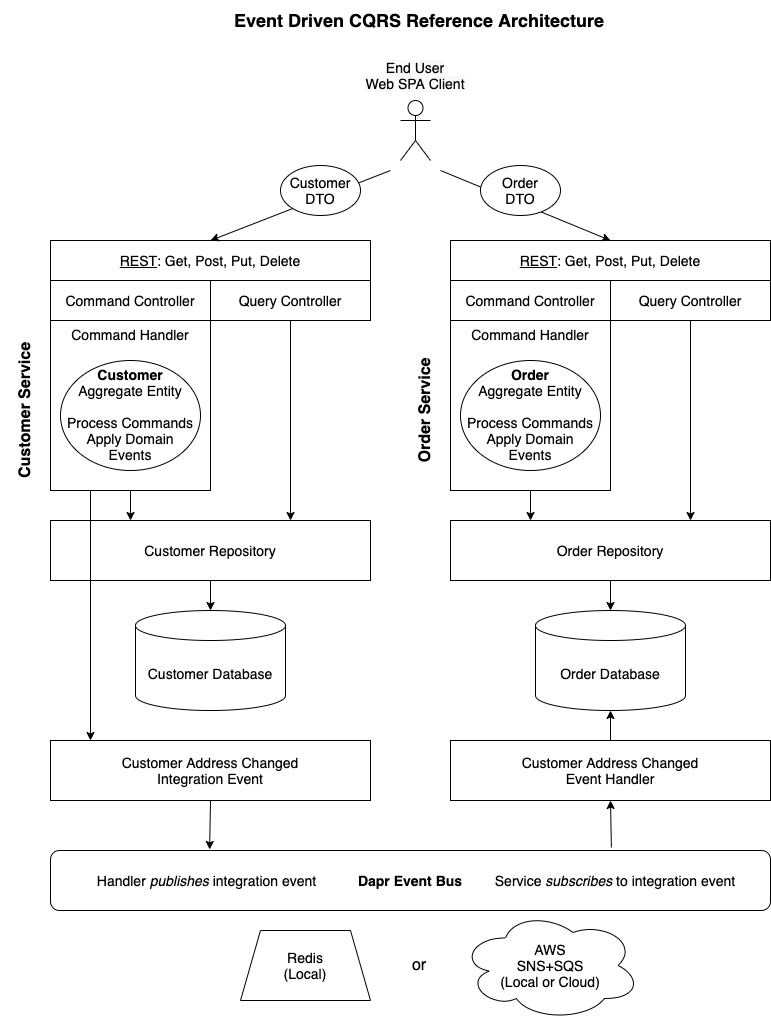
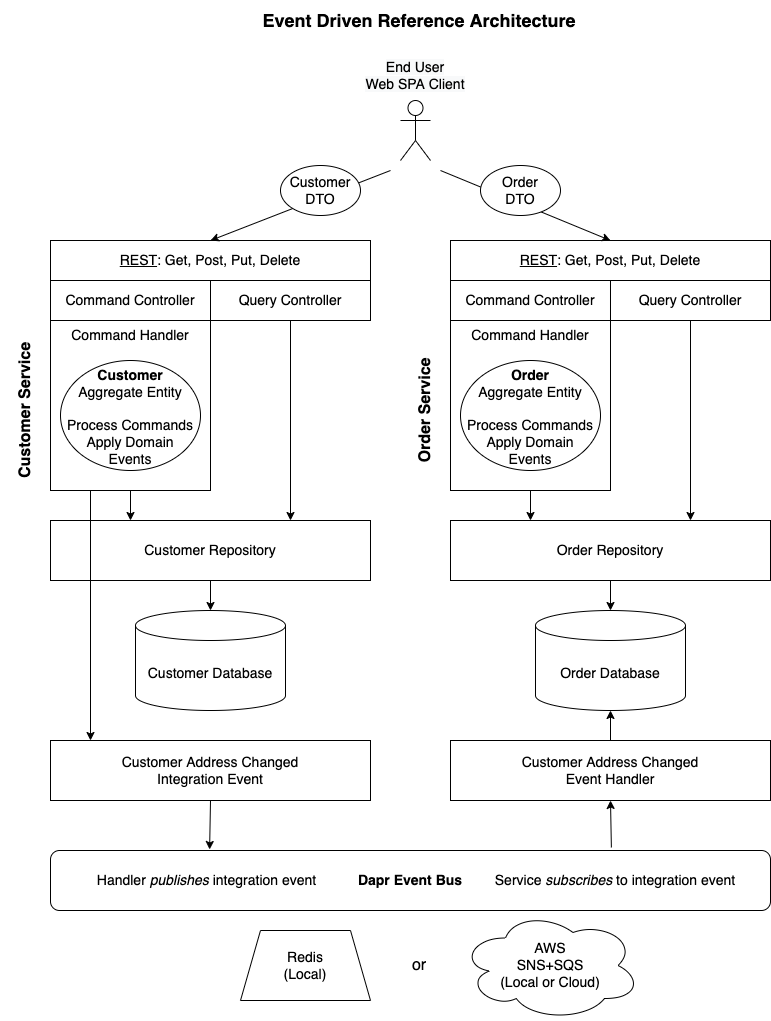
Rename solution, update ReadMe.md.

diff --git a/ReadMe.md b/ReadMe.md
@@ -1,6 +1,6 @@
-# EventDriven.CQRS
+# EventDriven.ReferenceArchitecture
 
-An event-driven approach to Command Query Responsibility Segregation.
+Reference architecture for using **EventDriven** abstractions and libraries for Domain Driven Design (**DDD**), Command-Query Responsibility Segregation (**CQRS**) and Event Driven Architecture (**EDA**).
 
 ## Prerequisites
 - [.NET Core SDK](https://dotnet.microsoft.com/download) (5.0 or greater)
@@ -12,10 +12,11 @@ An event-driven approach to Command Query Responsibility Segregation.
 - [Dapr](https://dapr.io/) (Distributed Application Runtime)
   - [Install Dapr CLI](https://docs.dapr.io/getting-started/install-dapr-cli/)
   - [Initialize Dapr](https://docs.dapr.io/getting-started/install-dapr-selfhost/)
+- [Microsoft Tye](https://github.com/dotnet/tye/blob/main/docs/getting_started.md) (recommended)
 
 ## Introduction
 
-This project builds on the principles of [Domain Driven Design](https://en.wikipedia.org/wiki/Domain-driven_design) to provide a set of abstractions and reference architecture for implementing the [Command Query Responsibility Segregation](https://docs.microsoft.com/en-us/azure/architecture/patterns/cqrs) pattern, also known as as CQRS. Because entities process commands by emitting domain events, adding [event sourcing](https://microservices.io/patterns/data/event-sourcing.html) at a later time will be relatively straightforward.
+This project builds on the principles of [Domain Driven Design](https://en.wikipedia.org/wiki/Domain-driven_design) (DDD) to provide a set of abstractions and reference architecture for implementing the [Command Query Responsibility Segregation](https://docs.microsoft.com/en-us/azure/architecture/patterns/cqrs) (CQRS) pattern. By providing an event bus abstraction over [Dapr](https://dapr.io/) (Distributed Application Runtime), the reference architecture demonstrates how to apply principles of [Event Driven Architecture](https://en.wikipedia.org/wiki/Event-driven_architecture) (EDA). Because entities process commands by emitting domain events, adding [event sourcing](https://microservices.io/patterns/data/event-sourcing.html) at a later time will be relatively straightforward.
 
 The **Reference Architecture** projects demonstrate how to apply these concepts to two microservices: `CustomerService` and `OrderService`. In addition, each service has *separate controllers for read and write operations*, thus segregating command and query responsibilities, with different sets of models, or Data Transfer Objects (DTO's).
 - **Query Controller**: Uses repository to retrieve entities and converts them to DTO's with AutoMapper.
@@ -30,21 +31,22 @@ The **Reference Architecture** projects demonstrate how to apply these concepts 
   <img width="600" src="images/event-driven-cqrs-ref-arch.png">
 </p>
 
-### Reference Architecture
+### Run services with Tye and Dapr
 
-1. Run Dapr Dashboard.
-   - Then open http://localhost:8080 to view containers after executing `dapr run` commands.
+> **Note**: As an alternative to Tye, you can run services directly usng the Dapr CLI. This may be useful for troubleshooting Dapr issues after setting `Microsoft.AspNetCore` logging level to `Debug`.
+> `dapr run --app-id service-name --app-port #### --components-path ../dapr/components -- dotnet run`
+
+1. Open a terminal at the **reference-architecture** directory and run Tye to launch all services simultaneously.
     ```
-    dapr dashboard
+    tye run
     ```
-2. Use Tye or Dapr to run the customer service.
+2. Alternatively, run Tye in debug mode.
     ```
-    dapr run --app-id customer-service --app-port 5656 --components-path ../dapr/components -- dotnet run
+    tye run --debug *
     ```
-3. Use Dapr to run the order service.
-    ```
-    dapr run --app-id order-service --app-port 5757 --components-path ../dapr/components -- dotnet run
-    ```
+    - Set breakpoints in **OrderService**, **CustomerService**.
+    - Attach the IDE debugger to **OrderService.dll**, **CustomerService.dll**.
+3. Open the Tye dashboard at http://localhost:8000 to inspect service endpoints and view logs.
 4. Create some customers.
    - Open http://localhost:5656/swagger
    - Execute posts using contents of **customers.json**.
@@ -64,12 +66,6 @@ The **Reference Architecture** projects demonstrate how to apply these concepts 
 6. Update the address of a customer who has order.
    - Note the address is also updated for the customer's orders.
    - Observe log messages in terminal when integration events are published and handled.
-7. To **debug** services, you can use [tye](https://github.com/dotnet/tye) with the *Dapr extension*.
-   - Open a terminal at the reference-architecture folder.
-   - Run `tye run --debug *`
-   - Set breakpoints in each project.
-   - Attach the debugger to each process.
-   - Open http://localhost:8000 to view the Tye Dashboard.
 
 ### Development Guide
 
@@ -87,16 +83,23 @@ The **Reference Architecture** projects demonstrate how to apply these concepts 
     ```
    - Where you need to execute business logic, implement `ICommandProcessor` and `IEventApplier` interfaces to process commands by emitting domain events and to apply those events to mutate entity state.
         ```csharp
-        public IEnumerable<IDomainEvent> Process(CreateCustomer command)
-            // To process command, return one or more domain events
-            => new List<IDomainEvent>
-            {
-                new CustomerCreated(command.Customer)
-            };
+        public class Customer : 
+            Entity,
+            ICommandProcessor<CreateCustomer, CustomerCreated>,
+            IEventApplier<CustomerCreated>
+        {
+            public string FirstName { get; set; }
+            public string LastName { get; set; }
+            public Address ShippingAddress { get; set; }
 
-        public void Apply(CustomerCreated domainEvent) =>
-            // Set Id
-            Id = domainEvent.EntityId != default(Guid) ? domainEvent.EntityId : Guid.NewGuid();
+            public CustomerCreated Process(CreateCustomer command)
+                // To process command, return one or more domain events
+                => new(command.Entity);
+
+            public void Apply(CustomerCreated domainEvent) =>
+                // Set Id
+                Id = domainEvent.EntityId != default ? domainEvent.EntityId : Guid.NewGuid();
+        }
         ```
 2. Add a `CustomerCommandHandler` class that implements `ICommandHandler` for create, update and remove commands.
    - Inject `ICustomerRepository`, `IEventBus` and `IMapper` into the ctor.
@@ -105,16 +108,13 @@ The **Reference Architecture** projects demonstrate how to apply these concepts 
     public async Task<CommandResult<Customer>> Handle(CreateCustomer command)
     {
         // Process command
-        _logger.LogInformation("Handling command: {commandName}", nameof(CreateCustomer));
-        var events = command.Customer.Process(command);
+        var domainEvent = command.Entity.Process(command);
         
         // Apply events
-        var domainEvent = events.OfType<CustomerCreated>().SingleOrDefault();
-        if (domainEvent == null) return new CommandResult<Customer>(CommandOutcome.NotHandled);
-        command.Customer.Apply(domainEvent);
+        command.Entity.Apply(domainEvent);
         
         // Persist entity
-        var entity = await _repository.Add(command.Customer);
+        var entity = await _repository.AddAsync(command.Entity);
         if (entity == null) return new CommandResult<Customer>(CommandOutcome.InvalidCommand);
         return new CommandResult<Customer>(CommandOutcome.Accepted, entity);
     }
@@ -130,21 +130,20 @@ The **Reference Architecture** projects demonstrate how to apply these concepts 
     public async Task<CommandResult<Customer>> Handle(UpdateCustomer command)
     {
         // Compare shipping addresses
-        _logger.LogInformation("Handling command: {commandName}", nameof(UpdateCustomer));
-        var existing = await _repository.Get(command.EntityId);
-        var addressChanged = command.Customer.ShippingAddress != existing.ShippingAddress;
+        var existing = await _repository.GetAsync(command.EntityId);
+        if (existing == null) return new CommandResult<Customer>(CommandOutcome.NotHandled);
+        var addressChanged = command.Entity.ShippingAddress != existing.ShippingAddress;
         
         try
         {
             // Persist entity
-            var entity = await _repository.Update(command.Customer);
+            var entity = await _repository.UpdateAsync(command.Entity);
             if (entity == null) return new CommandResult<Customer>(CommandOutcome.NotFound);
             
             // Publish events
             if (addressChanged)
             {
                 var shippingAddress = _mapper.Map<Integration.Models.Address>(entity.ShippingAddress);
-                _logger.LogInformation("Publishing event: {eventName}", $"v1.{nameof(CustomerAddressUpdated)}");
                 await _eventBus.PublishAsync(
                     new CustomerAddressUpdated(entity.Id, shippingAddress),
                     null, "v1");
@@ -161,14 +160,59 @@ The **Reference Architecture** projects demonstrate how to apply these concepts 
    - Add Post, Put and Delete actions which accept a `Customer` DTO, map it to a `Customer` entity and invoke the appropriate command handler.
 4. Add a `CustomerQueryController` to the project that injects a `ICustomerRepository` into the ctor.
    - Use the repository to retrieve entities, then map those to `Customer` DTO objects.
-5. Repeat these steps for the Order service.
+5. Register dependencies in `Startup.ConfigureServices`.
+    ```csharp
+    // Registrations
+    services.AddAutoMapper(typeof(Startup));
+    services.AddSingleton<CustomerCommandHandler>();
+    services.AddSingleton<ICustomerRepository, CustomerRepository>();
+    services.AddMongoDbSettings<CustomerDatabaseSettings, Customer>(Configuration);
+
+    // Add Dapr event bus
+    services.AddDaprEventBus(Configuration, true);
+
+    // Add Dapr Mongo event cache
+    services.AddDaprMongoEventCache(Configuration);
+    ```
+6. Add configuration entries to **appsettings.json**.
+    ```json
+    "CustomerDatabaseSettings": {
+      "ConnectionString": "mongodb://localhost:27017",
+      "DatabaseName": "CustomersDb",
+      "CollectionName": "Customers"
+    },
+    "DaprEventBusOptions": {
+      "PubSubName": "pubsub"
+    },
+    "DaprEventCacheOptions": {
+      "DaprStateStoreOptions": {
+        "StateStoreName": "statestore-mongodb"
+      }
+    },
+    "DaprStoreDatabaseSettings": {
+      "ConnectionString": "mongodb://localhost:27017",
+      "DatabaseName": "daprStore",
+      "CollectionName": "daprCollection"
+    },
+    "DaprEventBusSchemaOptions": {
+      "UseSchemaRegistry": true,
+      "SchemaValidatorType": "Json",
+      "SchemaRegistryType": "Mongo",
+      "AddSchemaOnPublish": true,
+      "MongoStateStoreOptions": {
+        "ConnectionString": "mongodb://localhost:27017",
+        "DatabaseName": "schema-registry",
+        "SchemasCollectionName": "schemas"
+      }
+    }
+    ```
+7. Repeat these steps for the **Order** service.
    - Reference the Common project.
    - Add **Integration/EventHandlers** folders with a `CustomerAddressUpdatedEventHandler` class that extends `IntegrationEventHandler<CustomerAddressUpdated>`.
    - Override `HandleAsync` to update the order addresses for the customer.
     ```csharp
     public override async Task HandleAsync(CustomerAddressUpdated @event)
     {
-        _logger.LogInformation("Handling CustomerAddressUpdated event.");
         var orders = await _orderRepository.GetCustomerOrders(@event.CustomerId);
         foreach (var order in orders)
         {
@@ -180,7 +224,8 @@ The **Reference Architecture** projects demonstrate how to apply these concepts 
    - In `Startup.ConfigureServices` register `CustomerAddressUpdatedEventHandler` then add the Dapr Event Bus.
     ```csharp
     services.AddSingleton<CustomerAddressUpdatedEventHandler>();
-    services.AddDaprEventBus(Constants.DaprPubSubName);
+    services.AddDaprEventBus(Configuration, true);
+    services.AddDaprMongoEventCache(Configuration);
     ```
    - In `Startup.Configure` use Cloud Events, map subscribe handlers, and map Dapr Event Bus endpoints, subscribing with the event handler.
     ```csharp
